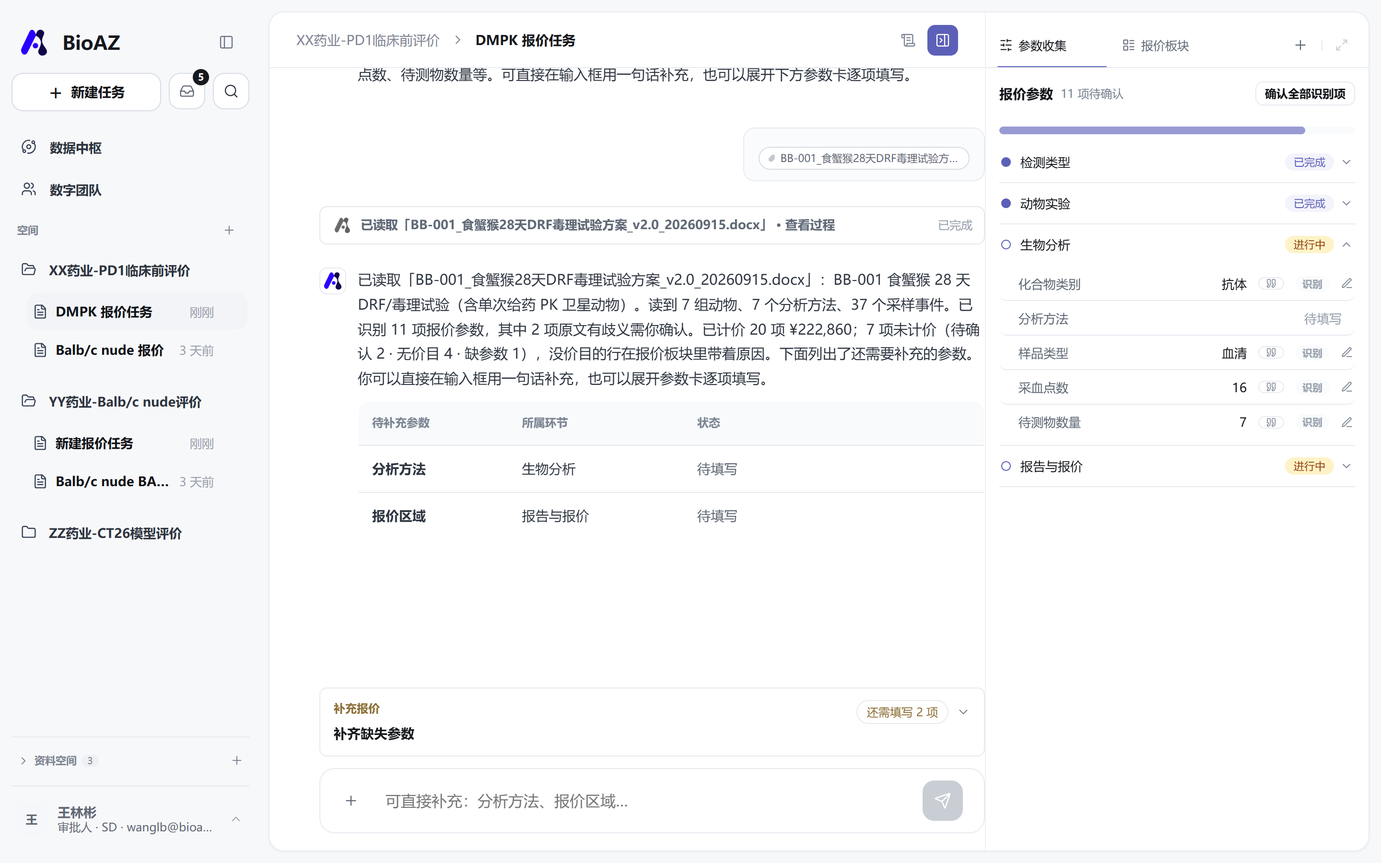
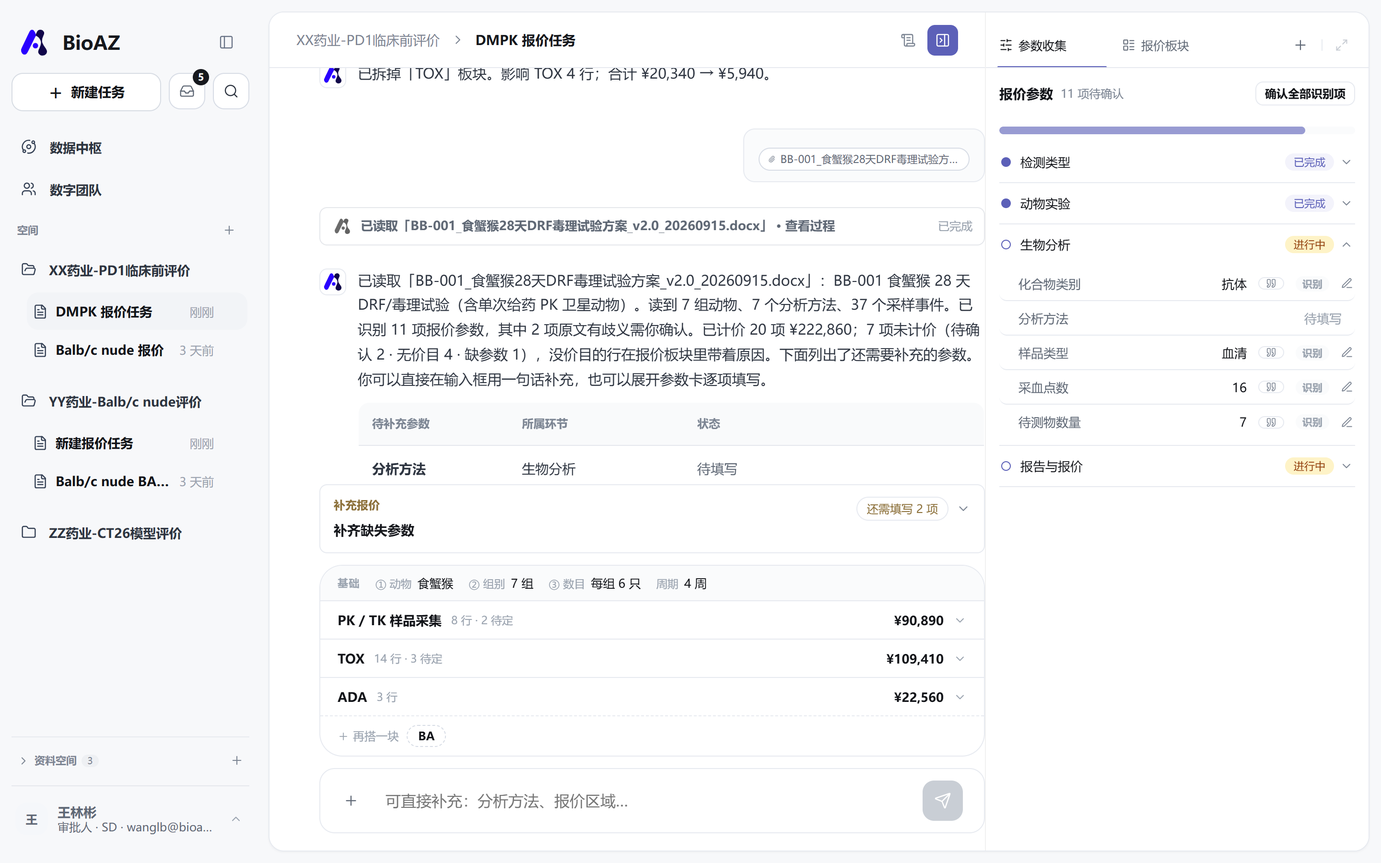
Re-capture the demo with blocks and the reviewer's evidence tab; deck to 14 slides
The capture now adds a TOX block after the first sentence, and after
the catalog steps it finishes the quote, hands it to 李林, switches the
account (lens 总览) and reviews the DMPK ticket: 站内信, 依据与变更,
then 计算表. Two new images, ours-blocks and ours-review-evidence.

The deck gains a 积木 slide after 八维 and the 人与工单 slide shows the
evidence tab; the summary table and the three-sentence slide list the
new pieces. The demo README route gets step 1b (blocks), the 按组
switch in step 5, and the 李林 review path in step 6. QUOTE_SECTIONS
§6c and the worklog record what was built and what still waits.

diff --git a/public/demo/compare/index.html b/public/demo/compare/index.html
@@ -140,7 +140,7 @@
     <div class="verdict">
       <div class="card"><span class="n">01 · 同源</span><h3>会话层是同一套设计</h3><p>三栏、对话流、参数卡、右栏、产物卡——beta5 已经采用了我们的会话设计。演示里看到的会话骨架，两边一样。</p></div>
       <div class="card"><span class="n">02 · 跟着改</span><h3>壳层只改了名字和一页</h3><p>「项目」→「空间」；进空间先到一个入口页；数据中枢多一档「产物」。侧栏结构、知识库、数字团队没动，会话层一个像素没动。</p></div>
-      <div class="card"><span class="n">03 · 多出来</span><h3>八件事 beta5 里没有</h3><ul><li>右栏「报价板块」：参数状态 + 单价</li><li>临时改价闭环、无价目补价</li><li>价目表独立入口 + 对话里问本单价目</li><li>多模态材料识别 + 原文依据 + 确认两态</li><li>人 / 站内信 / 工单 / 交接 / 退回 / 复核画布</li><li>演示级权限（SD / SD 助理）</li><li>「+」菜单：技能 = 让它做，连接器 = 它在读什么</li><li>空间首页的专家绑定与介绍</li></ul></div>
+      <div class="card"><span class="n">03 · 多出来</span><h3>十件事 beta5 里没有</h3><ul><li>右栏「报价板块」：参数状态 + 单价</li><li>临时改价、补价、折扣——一条路，仅本单</li><li>价目表独立入口 + 对话里问本单价目</li><li>多模态材料识别 + 原文依据 + 确认两态 + 按八维归位</li><li>积木卡：基础卡底下按板块搭</li><li>人 / 站内信 / 工单 / 交接 / 退回 / 复核画布 + 审核人看依据与变更</li><li>演示级权限（SD / SD 助理）</li><li>「+」菜单：技能 = 让它做，连接器 = 它在读什么</li><li>P0 规则：少于 30 按 30、不适用、影响提示、按组明细</li><li>空间首页的专家绑定与介绍</li></ul></div>
     </div>
     <footer><span>硬冲突只有一处：beta5 没有「人」。以我们为准。</span><span class="num">2</span></footer>
   </section>
@@ -190,8 +190,19 @@
       </ol></div><p class="caption">方案第三、四、五层的几条规则也补进了原型：<b>每化合物少于 30 份按 30 计</b>；<b>猴类价 / 折扣 / 其他费用是人工输入项</b>，不假装有价目；BA Only 不问动物参数，台账写「不适用」。</p></div>
       <div class="panel"><span class="tag ours"><i></i>原型 09-21</span><div class="shot"><img src="img/ours-materials-dims.png" alt="原型 输入材料按八维分组"></div><p class="caption">「输入材料」面板：<b>按八维提取 · 读到 8 / 8 维</b>，每一维带原文位置（§1 / 表 2 / 表 3），能展开看明细。没归到八维的（聊天记录里的交付要求）排在最后。</p></div>
     </div>
-    <div class="diff"><div class="hi"><b>影响提示</b>每次参数或单价一变，对话里一句「影响 PK / TK 样品采集 2 行；合计 A → B」——转换确认模块首期要的那一项。</div><div><b>没做的</b>检测项目多选 + 按组参数（积木卡）、按组明细视图、审核人看原文依据与变更记录。</div><div><b>要讨论</b>八维之外的东西（交付要求、报价区域）在方案里没有位置，原型先放在「其他」。</div></div>
-    <footer><span>docs/QUOTE_SECTIONS.md §7 · 对照《DMPK 复杂报价 P0 工程方案（五层链路版）》</span><span class="num">6</span></footer>
+    <div class="diff"><div class="hi"><b>影响提示</b>每次参数或单价一变，对话里一句「影响 PK / TK 样品采集 2 行；合计 A → B」——转换确认模块首期要的那一项。</div><div><b>按组明细</b>「报价明细」能翻成按组看：每组分到的行、份额、小计，各组 + 整单项 = 合计——方案的输出口径。</div><div><b>要讨论</b>八维之外的东西（交付要求、报价区域）在方案里没有位置，原型先放在「其他」；按组参数（每组各自的时点）还没有格子。</div></div>
+    <footer><span>docs/QUOTE_SECTIONS.md §6b · 对照《DMPK 复杂报价 P0 工程方案（五层链路版）》</span><span class="num">6</span></footer>
+  </section>
+
+  <!-- 7 积木 -->
+  <section class="slide">
+    <header><span class="kicker">会议 · 积木</span><h2>基础卡底下，一块一块搭<small>会上说的「TOX 的卡片在下面再长出一个卡片，像搭积木」。八维正好切成两层：基础卡是 ①②③，每个板块一张 ④–⑧。</small></h2></header>
+    <div class="compare wide">
+      <div class="panel"><span class="tag ours"><i></i>原型 09-22</span><div class="shot"><img src="img/ours-blocks.png" alt="原型 积木卡：基础卡底下按板块长出的板块卡"></div><p class="caption">参数卡底边长出一叠：<b>基础</b>一行（动物 · 组别 · 数目 · 周期），下面每个板块一张，折起来是「TOX · 4 行 · 3 待定 · ¥14,400」，展开是这个板块的 ④ 操作 ⑤ 次数 ⑥ 项目 ⑦ 方法 ⑧ 数量，以及它还缺什么、点「去填」。<b>「再搭一块」</b>点 TOX，右栏同时长出 TOX 段。</p></div>
+      <div class="panel"><span class="tag beta"><i></i>怎么做到的</span><div class="shot none"><span><b>板块卡不另存一份定义</b>它读的就是右栏那份账：一个板块一张卡，卡上摆这个板块的账里有什么、还缺什么。右栏改了它跟着改，反之亦然。<br><br><b>十四项不动</b>「检测类型」仍是单选、定主板块；再要哪个板块点一下加，账里当场长出那一段（行大多缺参数、指回参数卡那一格），格子填一个亮一行；拆掉就收回。</span></div><p class="caption">加、拆都进对话（「已搭上 TOX：多了 4 行，其中 2 行缺参数（采血点数）」+ 影响提示），也进快照——出过版之后再搭，版本卡标「待重出」。</p></div>
+    </div>
+    <div class="diff"><div class="hi"><b>回答了</b>⑥ 检测项目多选：检测类型 + 搭上去的板块 = 这一单做什么。</div><div><b>没回答</b>每个板块各自的组 / 时点（按组参数）：现在全单共用一套采血点数，方案里 TK 16 点 / PK 11 点 / 临床病理 6 点是三套。</div><div><b>要定</b>板块卡上要哪些格子——等吴迪的表；有了表，卡上就能填，不只是看。</div></div>
+    <footer><span>modules/dmpk-quotation/packageBlocks.tsx · 板块定义与右栏共用一份</span><span class="num">7</span></footer>
   </section>
 
   <!-- 6 费用 / 改价 -->
@@ -202,7 +213,7 @@
       <div class="panel"><span class="tag ours"><i></i>原型 09-21</span><div class="shot"><img src="img/ours-temp-price-done.png" alt="原型 临时改价后的板块"></div><p class="caption">同一条路走了三种价：<b>改价</b>——TK 毒代采血 ¥130 → ¥120，行上挂「临时价 · 原价 · 恢复」；<b>补价</b>——猴类价系统没有，标「待补价」，人给 ¥30,000 只作用于本单；<b>本单折扣 0.9</b>——人工调整项，作用在合计上，写进纸面的黄格子。每一步对话里都留一句「仅本次报价，价目表不动」。</p></div>
     </div>
     <div class="diff"><div class="hi"><b>唯一路径</b>改价只在板块里，不经对话、不进后台。</div><div><b>不按零元</b>无价目的项留在账上标「待补价」，人补一个只作用于本单；折扣、其他费用同理，是人工项不是价目。</div><div><b>重出</b>出过版之后改价，版本卡标「待重出」，一键重新生成。</div></div>
-    <footer><span>纸面（Excel 计算表 / Word 报价书）读的就是这份账：Standard 按价目、Discounted 按调整后。</span><span class="num">7</span></footer>
+    <footer><span>纸面（Excel 计算表 / Word 报价书）读的就是这份账：Standard 按价目、Discounted 按调整后。</span><span class="num">8</span></footer>
   </section>
 
   <!-- 7 价目表 -->
@@ -213,18 +224,18 @@
       <div class="panel"><span class="tag ours"><i></i>原型 · 后台</span><div class="shot"><img src="img/ours-catalog-backoffice.png" alt="原型 报价管理 标准价格"></div><p class="caption">「查看完整价目表 →」进报价管理，页首一行：<b>这里是全局，改本单回会话</b>。SD 助理进来是只读。</p></div>
     </div>
     <div class="diff"><div><b>beta5</b>没有价目表的入口，也没有"这单用了哪些价"。</div><div class="hi"><b>边界</b>全局（底表）和本单（临时价）是两条路，文案在两头都写了。</div><div><b>状态保留</b>进后台再返回，会话原样还在（今天修的）。</div></div>
-    <footer><span>价目表版本 v1.0.13</span><span class="num">8</span></footer>
+    <footer><span>价目表版本 v1.0.13</span><span class="num">9</span></footer>
   </section>
 
   <!-- 8 人与工单 -->
   <section class="slide">
     <header><span class="kicker">硬冲突 · 以我们为准</span><h2>人、站内信、工单、复核<small>beta5 里没有「人」的概念；报价审批和退回在我们这里是一条完整的链。</small></h2></header>
     <div class="compare">
-      <div class="panel"><span class="tag ours"><i></i>原型 · 站内信</span><div class="shot"><img src="img/ours-inbox.png" alt="原型 站内信"></div><p class="caption">待办与动态分开；工单带附件、时间线、处理人；交接从会话里一键发出。</p></div>
-      <div class="panel"><span class="tag ours"><i></i>原型 · 复核画布</span><div class="shot"><img src="img/ours-review-canvas.png" alt="原型 报价复核画布"></div><p class="caption">审批人对着计算表 / 报价书逐行批注 → 退回修订 → 撰写人那边批注回到会话、改参数、重出 v2。</p></div>
+      <div class="panel"><span class="tag ours"><i></i>原型 · 站内信</span><div class="shot"><img src="img/ours-inbox.png" alt="原型 站内信"></div><p class="caption">待办与动态分开；工单带附件、时间线、处理人；交接从会话里一键发出——刚交过来的「请复核：DMPK 报价任务」就在最上面。</p></div>
+      <div class="panel"><span class="tag ours"><i></i>原型 · 复核画布</span><div class="shot"><img src="img/ours-review-evidence.png" alt="原型 报价复核画布 · 依据与变更"></div><p class="caption">审核人看的是<b>同一份草稿</b>：计算表 / 报价书之外多一页「依据与变更」——每项参数读自材料哪一节、原句是什么，人改过的写「原文为 X，已改为 Y」；右边是这一版改过什么（改价、补价、折扣、出过几版）。批完 → 退回修订 → 撰写人那边批注回到会话、改参数、重出 v2。</p></div>
     </div>
-    <div class="diff"><div class="hi"><b>beta5</b>没有账号角色、没有工单、没有交接——这是唯一的硬冲突。</div><div><b>要问的</b>空间会不会有成员和岗位？没有的话审批和退回在 beta5 里怎么落？</div><div><b>我们的立场</b>会话层同源，人与流转以我们为准。</div></div>
-    <footer><span>切账号演示：赵敏（撰写）→ 王林彬（审批）</span><span class="num">9</span></footer>
+    <div class="diff"><div class="hi"><b>beta5</b>没有账号角色、没有工单、没有交接——这是唯一的硬冲突。</div><div><b>P0 第五层</b>审核人要看原文依据 + 参数变更 + 计算明细：交接那一下打成一包挂在工单上，画布读包；老工单没有包，照旧。</div><div><b>要问的</b>空间会不会有成员和岗位？没有的话审批和退回在 beta5 里怎么落？</div></div>
+    <footer><span>切账号演示：王林彬（撰写）→ 李林（审核）；演示范围切「总览」才看得到李林</span><span class="num">10</span></footer>
   </section>
 
   <!-- 9 数据中枢 -->
@@ -235,7 +246,7 @@
       <div class="panel"><span class="tag ours"><i></i>原型 09-21</span><div class="shot"><img src="img/ours-hub-artifacts.png" alt="原型 数据中枢 产物档"></div><p class="caption">根级「全部文件 | 产物」分段，产物档多一列<b>来源任务</b>，点进那条会话。</p></div>
     </div>
     <div class="diff"><div class="hi"><b>一致</b>产物 + 来源会话。</div><div><b>没做</b>「记忆」——先问工程师它是会话级摘要还是跨会话的用户记忆，决定会话快照往哪儿接。</div><div><b>没改名</b>知识库照旧。</div></div>
-    <footer><span></span><span class="num">10</span></footer>
+    <footer><span></span><span class="num">11</span></footer>
   </section>
 
   <!-- 10 权限 + 「+」 -->
@@ -257,7 +268,7 @@
       </div>
     </div>
     <div class="diff"><div><b>beta5</b>「+」只有上传；专家是全局页的一个入口。</div><div class="hi"><b>说服力</b>技能不是挂在消息上的标签，是可以让它做的事；连接器回答"它读得到什么"。</div><div><b>待定</b>两级够不够？会上原话是"SD 助理改临时价、SD 改底表"。</div></div>
-    <footer><span></span><span class="num">11</span></footer>
+    <footer><span></span><span class="num">12</span></footer>
   </section>
 
   <!-- 11 总表 -->
@@ -274,7 +285,9 @@
           <tr><td>改价</td><td class="beta no">无路径</td><td class="ours">临时价闭环（原价 → 新价 → 确认），仅本单；无价目可补价</td></tr>
           <tr><td>价目表</td><td class="beta no">无</td><td class="ours">独立入口；对话里能问本单命中的那一截</td></tr>
           <tr><td>材料识别</td><td class="beta no">无（参数靠打字）</td><td class="ours">多模态入口 + 解析轨迹 + 原文依据 + 识别 / 确认两态；读出来的按 P0 八维归位</td></tr>
-          <tr><td>P0 规则</td><td class="beta no">无</td><td class="ours">少于 30 按 30、猴类价 / 折扣 / 其他费用人工项、不适用、影响提示</td></tr>
+          <tr><td>P0 规则</td><td class="beta no">无</td><td class="ours">少于 30 按 30、猴类价 / 折扣 / 其他费用人工项、不适用、影响提示、按组明细</td></tr>
+          <tr><td>积木卡</td><td class="beta no">无</td><td class="ours">基础卡 ①②③ + 每板块一张 ④–⑧；「再搭一块」加 PK/TK · TOX · BA · ADA</td></tr>
+          <tr><td>审核人看什么</td><td class="beta no">无</td><td class="ours">同一份草稿：计算表 / 报价书 + 依据与变更（原文依据、改价补价折扣、版本）</td></tr>
           <tr><td>人与工单</td><td class="beta no">没有「人」</td><td class="ours">站内信、工单、交接、退回、复核画布——硬冲突，以我们为准</td></tr>
           <tr><td>权限</td><td class="beta no">无</td><td class="ours">演示级 SD / SD 助理</td></tr>
           <tr><td>数据中枢</td><td class="beta">文件 / 记忆 / 知识 / 产物</td><td class="ours">文件 / 产物（来源任务）；记忆待定义</td></tr>
@@ -282,7 +295,7 @@
         </tbody>
       </table>
     </div>
-    <footer><span>docs/BETA5_ALIGNMENT.md · docs/QUOTE_SECTIONS.md</span><span class="num">12</span></footer>
+    <footer><span>docs/BETA5_ALIGNMENT.md · docs/QUOTE_SECTIONS.md</span><span class="num">13</span></footer>
   </section>
 
   <!-- 12 要确认的 -->
@@ -293,7 +306,7 @@
       <div class="card"><span class="n">Q2 · 人</span><h3>空间会不会有成员和岗位？</h3><p>没有的话，报价审批、退回、交接在 beta5 里怎么落？我们这条链要接到哪个对象上。</p></div>
       <div class="card"><span class="n">Q3 · 记忆</span><h3>数据中枢的「记忆」是什么？</h3><p>会话级摘要，还是跨会话的用户记忆？决定我们的会话快照和摘要往哪儿接。另：「八维」表拿到后逐板块定字段。</p></div>
     </div>
-    <footer><span>原型分支 codex/dmpk-composer-params · GitHub wongolivia336-a11y/bioaz-agent-workbench</span><span class="num">13</span></footer>
+    <footer><span>原型分支 codex/dmpk-composer-params · GitHub wongolivia336-a11y/bioaz-agent-workbench</span><span class="num">14</span></footer>
   </section>
 
 </main>

diff --git a/docs/demo/README.md b/docs/demo/README.md
@@ -38,6 +38,10 @@
 看：右栏自动切到「报价板块」——动物使用两行已计价（¥5,940），采血 / 检测 / 报告标「缺参数 · 去填」。
 说：账不等参数齐才有，填一项亮一行；这就是会上说的"右栏只做参数状态 + 单价"。
 
+**1b. 积木（1 分钟）** — 参数卡底下那一叠：「基础」一行（① 动物 ② 组别 ③ 数目 · 周期），下面每个板块一张卡。点「再搭一块 › TOX」。
+看：TOX 卡当场长出来（④ 操作 ⑤ 次数 ⑥ 项目 ⑦ 方法 ⑧ 数量 + 缺什么 · 去填），右栏同时多一段 TOX（4 行 · 3 待定），对话里「已搭上 TOX：多了 4 行，其中 2 行缺参数（采血点数）」+ 影响提示。点卡里「采血点数 · 去填」→ 选 8 → 发送 → TOX 两行亮了。
+说：这就是会上说的"TOX 的卡片在下面再长出一个卡片"；八维切成两层——基础卡 ①②③，板块卡 ④–⑧；十四项没动，检测类型定主板块，再搭的是加上去的。「去掉这个板块」能拆。
+
 **2. 传方案（3 分钟）** — 点「+ › 添加文件 › 本地文件」，选 `BB-001…方案_v2.0.docx`，发送。
 看：对话里的解析轨迹（7 步，点「查看过程」展开，每步有"读出了什么 / 原文在哪"）；一句话汇报「已识别 11 项、2 项待确认；已计价 20 项 ¥222,860，7 项未计价（待确认 2 · 无价目 4 · 缺参数 1）」；正文里列出还缺的项。
 右栏停在「参数收集」：文件认出来的标「识别」，铅笔逐项确认，或顶部「确认全部」。点任一行的来源标记 → 原文句子 + 锚点（P0-1 原文依据）。
@@ -60,11 +64,13 @@
 看：数字同事回一张表：费用项目 / 板块 / 单价 / 本单用量 / 状态，临时价带原价，无价目另起。
 再点「查看完整价目表 ↗」→ 报价管理 · 标准价格，页首一行"这是全局价目表……"；点「返回工作台」→ 会话原样还在。
 说：完整价目表不进对话（共识 2），本单命中的那一截可以问；后台是独立入口。
+顺手：右栏「+ › 报价明细」，顶上「按板块 / 按组」切一下——按组是 P0 的输出口径：七个组各自分到的行、份额、小计，各组 + 整单项 = 合计（方法开发、报告是整单项；触发「少于 30 按 30」的检测行也是，那条规则按化合物计）。
 
-**6. 生成 → 交接 → 复核（3 分钟）** — 补齐参数（输入框一句 `每组 2 只，LC-MS/MS，国内`，或展开参数卡点选；回复里带「影响 … 合计 A → B」），「确认并生成报价单」→ 产物两张卡，预览 Excel 内部计算表 / Word 报价书（纸面就是这份账：可编辑参数里有「折扣（人工）0.9」，Standard 按价目、Discounted 按调整后）。交接卡交给王林彬。
-切账号到王林彬 → 站内信 → 工单 → 开始审核 → 「计算表」tab → 批注 → 退回修订。
-切回赵敏 → 任务上有「要你动手」的点 → 退回批注在右栏、原件在中间画布 → 改参数 → 重出 v2。
-说：人和工单是我们多出来的，beta5 里没有——硬冲突，以我们为准。
+**6. 生成 → 交接 → 复核（3 分钟）** — 补齐参数（输入框一句 `每组 2 只，LC-MS/MS，国内报价`，或展开参数卡点选；回复里带「影响 … 合计 A → B」，并直接进「报价前确认」），「确认并生成报价单」→ 产物两张卡，预览 Excel 内部计算表 / Word 报价书（纸面就是这份账：可编辑参数里有「折扣（人工）0.9」，Standard 按价目、Discounted 按调整后）。交接卡交给李林（王林彬自己是撰写人时交给李林；站在赵敏则交给王林彬），说明栏预填会话摘要。
+切账号（左下角 › 演示范围切「总览」才看得到李林）→ 站内信最上面「请复核：DMPK 报价任务」→ 开始审核。
+看：画布上就是这一单的计算表 / 报价书（不再是固定件），第三个 tab「**依据与变更**」：左边 14 项参数各自读自材料哪一节、原句是什么，人填的标「人填的」，人改过原文的写「原文为 X，已改为 Y」；右边这一版改过什么——改价 ¥130 → ¥120、补价 ¥30,000、折扣 0.9、v1 首次生成，谁、什么时候。
+然后「计算表」tab → 选一段文字批注 → 退回修订。切回撰写人 → 任务上有「要你动手」的点 → 退回批注在右栏、原件在中间画布 → 改参数 → 重出 v2。
+说：人和工单是我们多出来的，beta5 里没有——硬冲突，以我们为准；审核人看同一份草稿的原文依据 + 变更 + 明细，是 P0 第五层点名的。
 
 **7. 权限（1 分钟）** — 站在赵敏：尾卡右边那扇门是虚线灰块「完整价目表 · 仅 SD」；左下角「报价管理」进去顶栏「只读 · SD 助理」。切到王林彬全部打开。
 说：权限分级会上说后置，这里只是演示级；助理能改临时价、审批人算 SD——09-21 定的。
@@ -82,7 +88,9 @@
 | 改价 | 无 | 临时价闭环：原价 → 新价 → 确认，仅本单；无价目可补价 |
 | 价目表 | 无 | 独立入口（报价管理），会话里能问本单命中的那一截 |
 | 材料识别 | 无 | 多模态入口 + 解析轨迹 + 每项参数的原文依据 + 识别 / 确认两态；读出来的按 P0 八维归位 |
-| P0 规则 | 无 | 少于 30 按 30、猴类价 / 折扣 / 其他费用是人工项、BA Only 不适用、影响提示 |
+| P0 规则 | 无 | 少于 30 按 30、猴类价 / 折扣 / 其他费用是人工项、BA Only 不适用、影响提示、按组明细 |
+| 积木卡 | 无 | 基础卡 ①②③ + 每板块一张 ④–⑧，「再搭一块」加 PK/TK · TOX · BA · ADA，账同步长出 |
+| 审核人看什么 | 无 | 同一份草稿：计算表 / 报价书 + 「依据与变更」（原文依据、改价补价折扣、版本） |
 | 人与工单 | **没有** | 站内信、工单、交接、退回、审批人复核画布——硬冲突，以我们为准 |
 | 权限 | 无 | 演示级：SD / SD 助理两级 |
 | 数字团队 | 有「专家」入口 | 保留我们的形态，空间可绑专家 |
@@ -90,10 +98,10 @@
 ## 对比讲稿（演示完再开）
 
 http://localhost:3000/demo/compare/index.html （文件在 `public/demo/compare/index.html`，dev server 起着就能开；离线也能直接双击打开）。
-13 页横向翻（← → / Home / End，点截图放大）：封面 → 三句话结论 → 空间 / 右栏 / 材料识别 / P0 八维 / 费用与改价 / 价目表 / 人与工单 /
+14 页横向翻（← → / Home / End，点截图放大）：封面 → 三句话结论 → 空间 / 右栏 / 材料识别 / P0 八维 / 积木 / 费用与改价 / 价目表 / 人与工单 /
 数据中枢 / 权限与「+」逐页左右对照（左 beta5、右原型）→ 总表 → 三个要一起定的问题。
 
-- 原型这边的截图由 `node public/demo/compare/capture-ours.mjs` 生成（无头 Edge 走一遍会话，14 张 2x PNG），改完原型重跑一次就是新图；
+- 原型这边的截图由 `node public/demo/compare/capture-ours.mjs` 生成（无头 Edge 走一遍会话到交接、切账号复核，16 张 2x PNG），改完原型重跑一次就是新图；
   它还会把「已读取…」那句打出来，讲稿第 5 页引用的数字照它改。
 - beta5 那边需要三张：`img/beta5-space-home.jpg`（空间入口页）、`img/beta5-session-rail.jpg`（会话 + 右栏「报价参数收集 13/13」）、
   `img/beta5-session-quote.jpg`（对话里的费用明细卡 + 两个文件）。没有的话讲稿里是一块虚线框写着该有什么，照样能讲。

diff --git a/docs/QUOTE_SECTIONS.md b/docs/QUOTE_SECTIONS.md
@@ -143,11 +143,30 @@ DMPK 右栏只剩 参数收集 / 报价板块 / 报价结果（+ 菜单里那几
   板块尾卡多一行「人工调整项」，纸面的 Discounted / Total 按调整后算，Standard 按价目（补价的行按补的价，因为它没有别的价）。
 - **影响提示**：`impactSentence(before, after)` 比前后两份账，参数卡发送、一句话补参数两条路的回复里都带「影响 X n 行；合计 A → B」。
 
+## 6c. 积木卡、按组明细、审核人的那一包（09-22 凌晨补）
+
+三件事都是 §6b 表里"没做"的，当晚接着做完了。参数模型仍然一个字没动。
+
+**积木卡**（`modules/dmpk-quotation/packageBlocks.tsx`）。八维切成两层：基础卡 = ①②③（全单一份），板块卡 = ④⑤⑥⑦⑧（每个工作包一张）。
+板块卡不另存定义——它读的就是右栏那份账（`summarizeLines`），一个板块一张，卡上摆这个板块的账里有什么、还缺什么（缺参数的指回那一格）。
+「再搭一块」= ⑥ 检测项目多选的落法：`assayType` 仍单选、定主板块；再要哪个板块记在会话的 `extraPackages` 里，
+`buildDmpkQuoteLines(fields, sources, { extraPackages })` 接一段 `buildExtraPackageLines`（每个板块 2–4 行，缩自 BB-001 的细账），
+右栏当场长出那一段，行大多缺参数，填一格亮一行；拆掉就收回。加、拆都进对话（多了几行、缺什么 + 影响提示）和快照（出过版再搭 → 待重出）。
+
+**按组明细**（`报价明细` 面板顶上「按板块 / 按组」）。`QuoteLine.groupShare`：组 id → 这一行落在这组的数量；BB-001 的行按核心 / 卫星标（`share(core, sat)`），
+十四项推的行按组数均分（`evenShare`）。`groupBreakdown` 每组按有效单价算金额，各组小计 + 整单项 = 按板块看的合计。
+没标组的是整单项：方法开发、报告，以及触发「少于 30 按 30」的检测行——那条规则按化合物计，拆到组就不对了。
+
+**审核人的那一包**（`lib/workbench/reviewBundle.ts`）。交接那一下会话打包：账折成的纸 + 每项参数的原文依据
+（读自材料哪一节、原句；人改过原文的带 original；人填的；系统判定的不适用）+ 这一版改过什么（改价 / 补价 / 折扣 / 搭上的板块 / 出过几版，谁、何时）。
+壳层原样挂到工单（`Ticket.review`），审核画布有包就读包里的纸（不再是固定件），多一个 tab「依据与变更」；附件预览读同一张纸。
+没包的老工单照旧。批在这张纸上的锚点是 `f-<字段 id>`，`noteFieldMap` 加了这一组映射，退回后照样落回参数。
+
 ## 7. 没做、待定
 
-- **每个板块的字段**（交付 ④）：八维已对上（§6b）；「每个板块要哪些字段」仍等吴迪的表——尤其 ⑥ 多选之后每个检测项目各自的组 / 时点。
-- **Composer 侧的积木卡**：识别出 TOX / BA / ADA 从基础卡底边长出板块卡、收齐折成一行——板块定义和右栏共用一份，等字段定了再做。
-- **按组明细视图**、**审核人看原文依据与变更记录**：方案第四、五层点了名，原型里前者没有，后者只有撰写人看得到。
+- **每个板块的字段**（交付 ④）：八维已对上（§6b），积木卡已经长出来（§6c）；卡上现在是"看"，要"填"得等吴迪的表——尤其 ⑥ 多选之后每个检测项目各自的组 / 时点（现在全单共用一套采血点数）。
+- **按组参数**：第 2 组 3 只、第 3 组 1 只这种表达还没有格子；BB-001 的核心 / 卫星是读出来的，不是填出来的。
+- **审核人的批注落回**：`f-` 锚点能落回字段；批在行上的（改价建议）仍只作用于报价单本身，不动会话参数——跟固定件那套一致。
 - **权限**：只有演示级门槛（§5d），按账号级别推三个布尔，没有真正的权限模型。会上说了后置。
 - 会议例子里的「板块 = 一行」（PK 样品采集机制：血浆 · 6 种 / ELISA / 11 只 / 0.5 USD）比我们的行粗；我们一个板块里有多项服务，
   所以行首保留服务名，四要素在它下面。概览确认时要跟陈曦慧、吴迪对一下颗粒度。

diff --git a/docs/worklog/2026-09-21-工作日志.md b/docs/worklog/2026-09-21-工作日志.md
@@ -236,9 +236,26 @@ Esc 和点遮罩都关。
 截图重跑（`capture-ours.mjs` 改价例子换到 TK 毒代采血，补价落在食蟹猴，再记一个 0.9 折），讲稿加了一页「八维」（13 页），
 演示 README 第 2 / 3 / 4 / 6 步的数字和路径跟着改。
 
+## 凌晨再补：把"没做"的三件也做了
+
+心蕊说明早验收、这几件都要做完。参数模型还是一个字没动，三件都是加法（细节在 `docs/QUOTE_SECTIONS.md` §6c）：
+
+- **积木卡**。参数卡底边长出一叠：「基础」一行（①②③ · 周期），下面每个板块一张卡（④–⑧ + 缺什么 · 去填），折起来一行。
+  板块卡读的就是右栏那份账，不另存。「再搭一块」点 TOX / BA / ADA / PK-TK，账里当场长出那一段（行大多缺参数），右栏同步多一段，
+  对话里「已搭上 TOX：多了 4 行，其中 2 行缺参数（采血点数）」+ 影响提示；「去掉这个板块」拆回去。这就是 ⑥ 检测项目多选在现有模型上的落法。
+- **按组明细**。「报价明细」顶上多一对胶囊「按板块 / 按组」。行上标了每组分到的数量（BB-001 按核心 / 卫星，十四项推的按组均分），
+  各组小计 + 整单项 = 合计——对过数：7 组 202,860 + 整单 20,000 = 222,860。方法开发、报告、触发 30 规则的检测行是整单项。
+- **审核人看同一份草稿**。交接那一下把纸 + 原文依据 + 变更记录打成一包挂在工单上；审核画布有包就读包（不再是固定件 Balb/c），
+  第三个 tab「依据与变更」：每项参数读自哪一节、原句，人填的、人改过的各有标；右边改价 / 补价 / 折扣 / 版本，谁、何时。附件预览读同一张纸。
+
+顺手：`f-<字段>` 锚点加进 `noteFieldMap`，审核人批在这张纸上的参数退回后能落回格子。
+
+截图、讲稿（14 页，加了「积木」一页，「人与工单」换成依据与变更那张）、演示 README（1b 积木、5 按组、6 交接改成交给李林）都跟着改了。
+四个 commit 都推到 GitHub 了：`5ed8a2d`（八维那批）→ `b79dbdd`（积木）→ `e8b8b35`（按组）→ `5bc82f7`（审核包）。
+
 ## 明天
 
-- 早上例会后的产研协同会：过 `docs/QUOTE_SECTIONS.md` §6b 那张八维对照表，重点是 ⑥ 多选之后每个检测项目各自的组 / 时点怎么放。
+- 早上例会后的产研协同会：过 `docs/QUOTE_SECTIONS.md` §6b 那张八维对照表，重点是 ⑥ 多选之后每个检测项目各自的组 / 时点怎么放——积木卡上现在是"看"，要"填"得有那张表。
 - 下午三点给另一个组：按 `docs/demo/README.md` 的 15 分钟路走一遍，再开讲稿 `/demo/compare/index.html`。
 - Composer 侧积木卡（基础卡 + 板块卡），板块定义和右栏共用——等字段定了再做。
 - 概览发给陈曦慧、吴迪确认。
